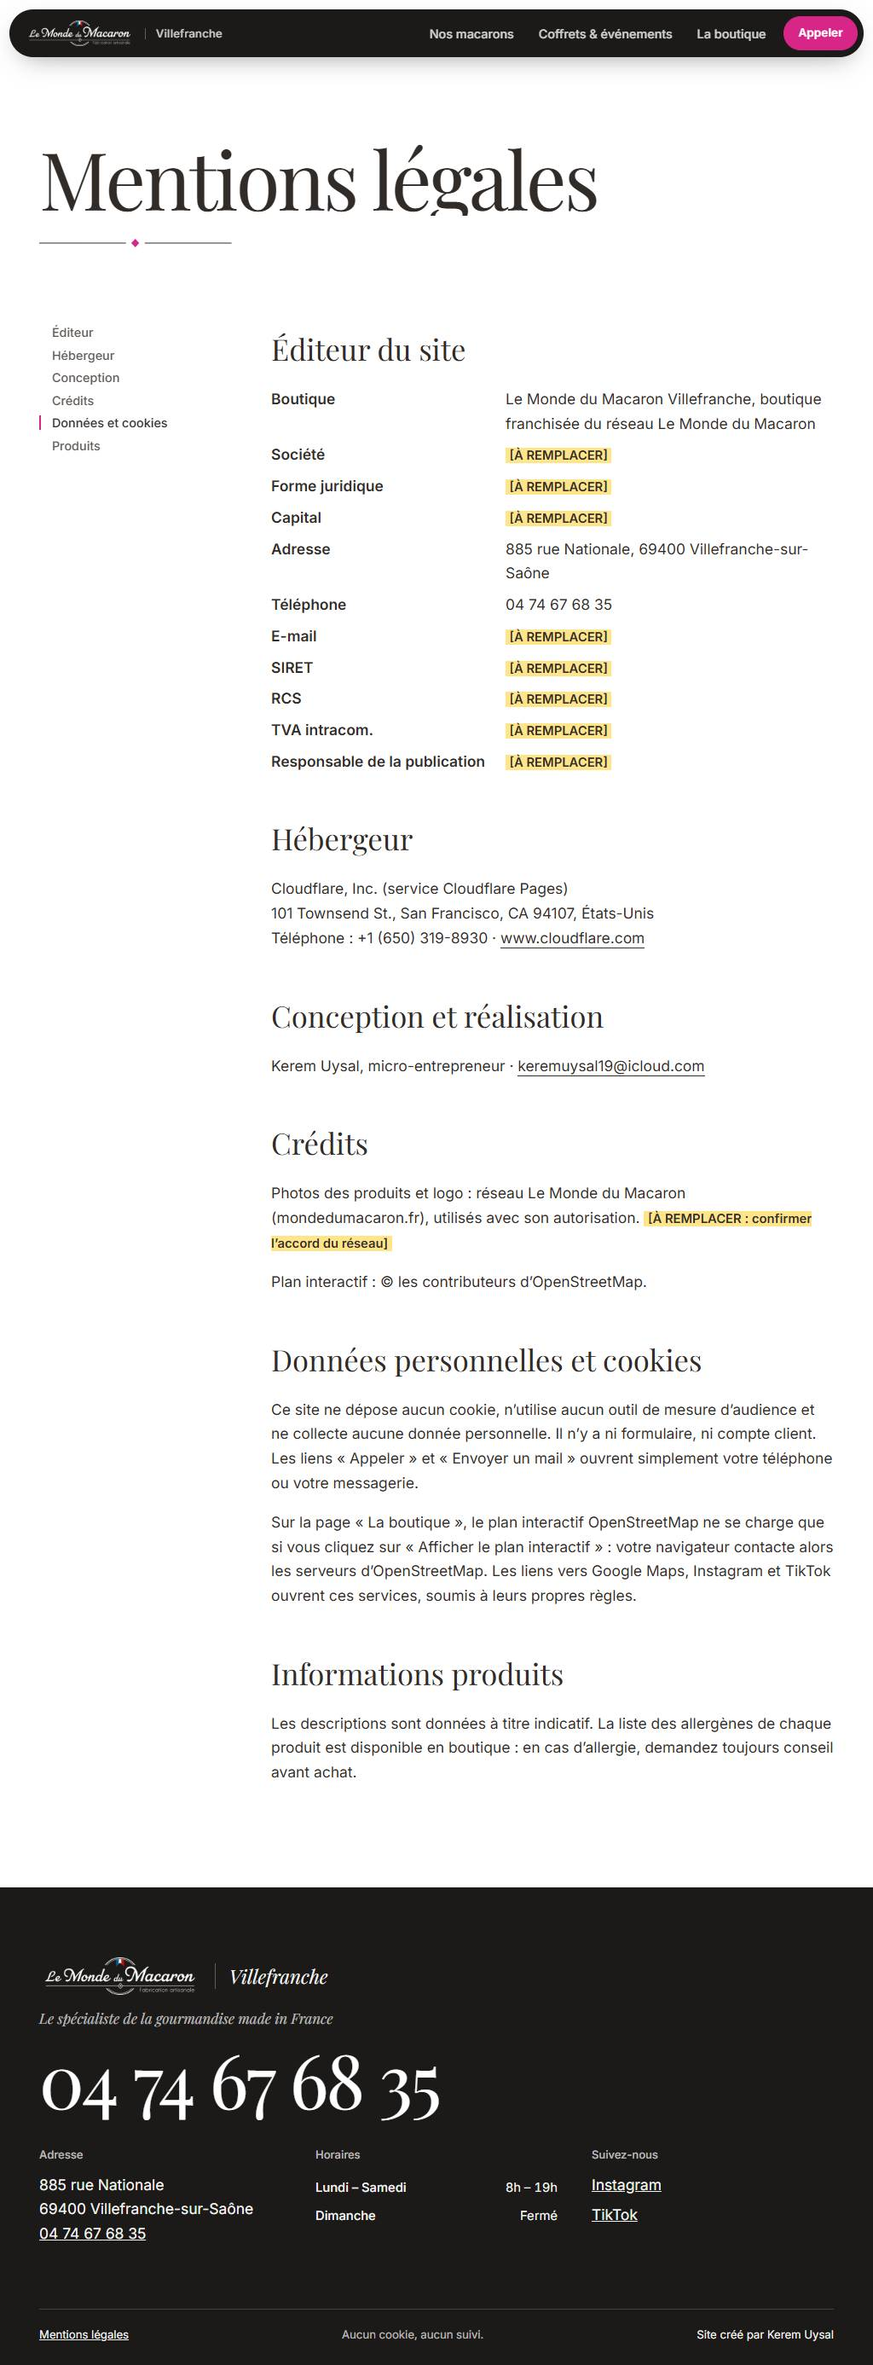
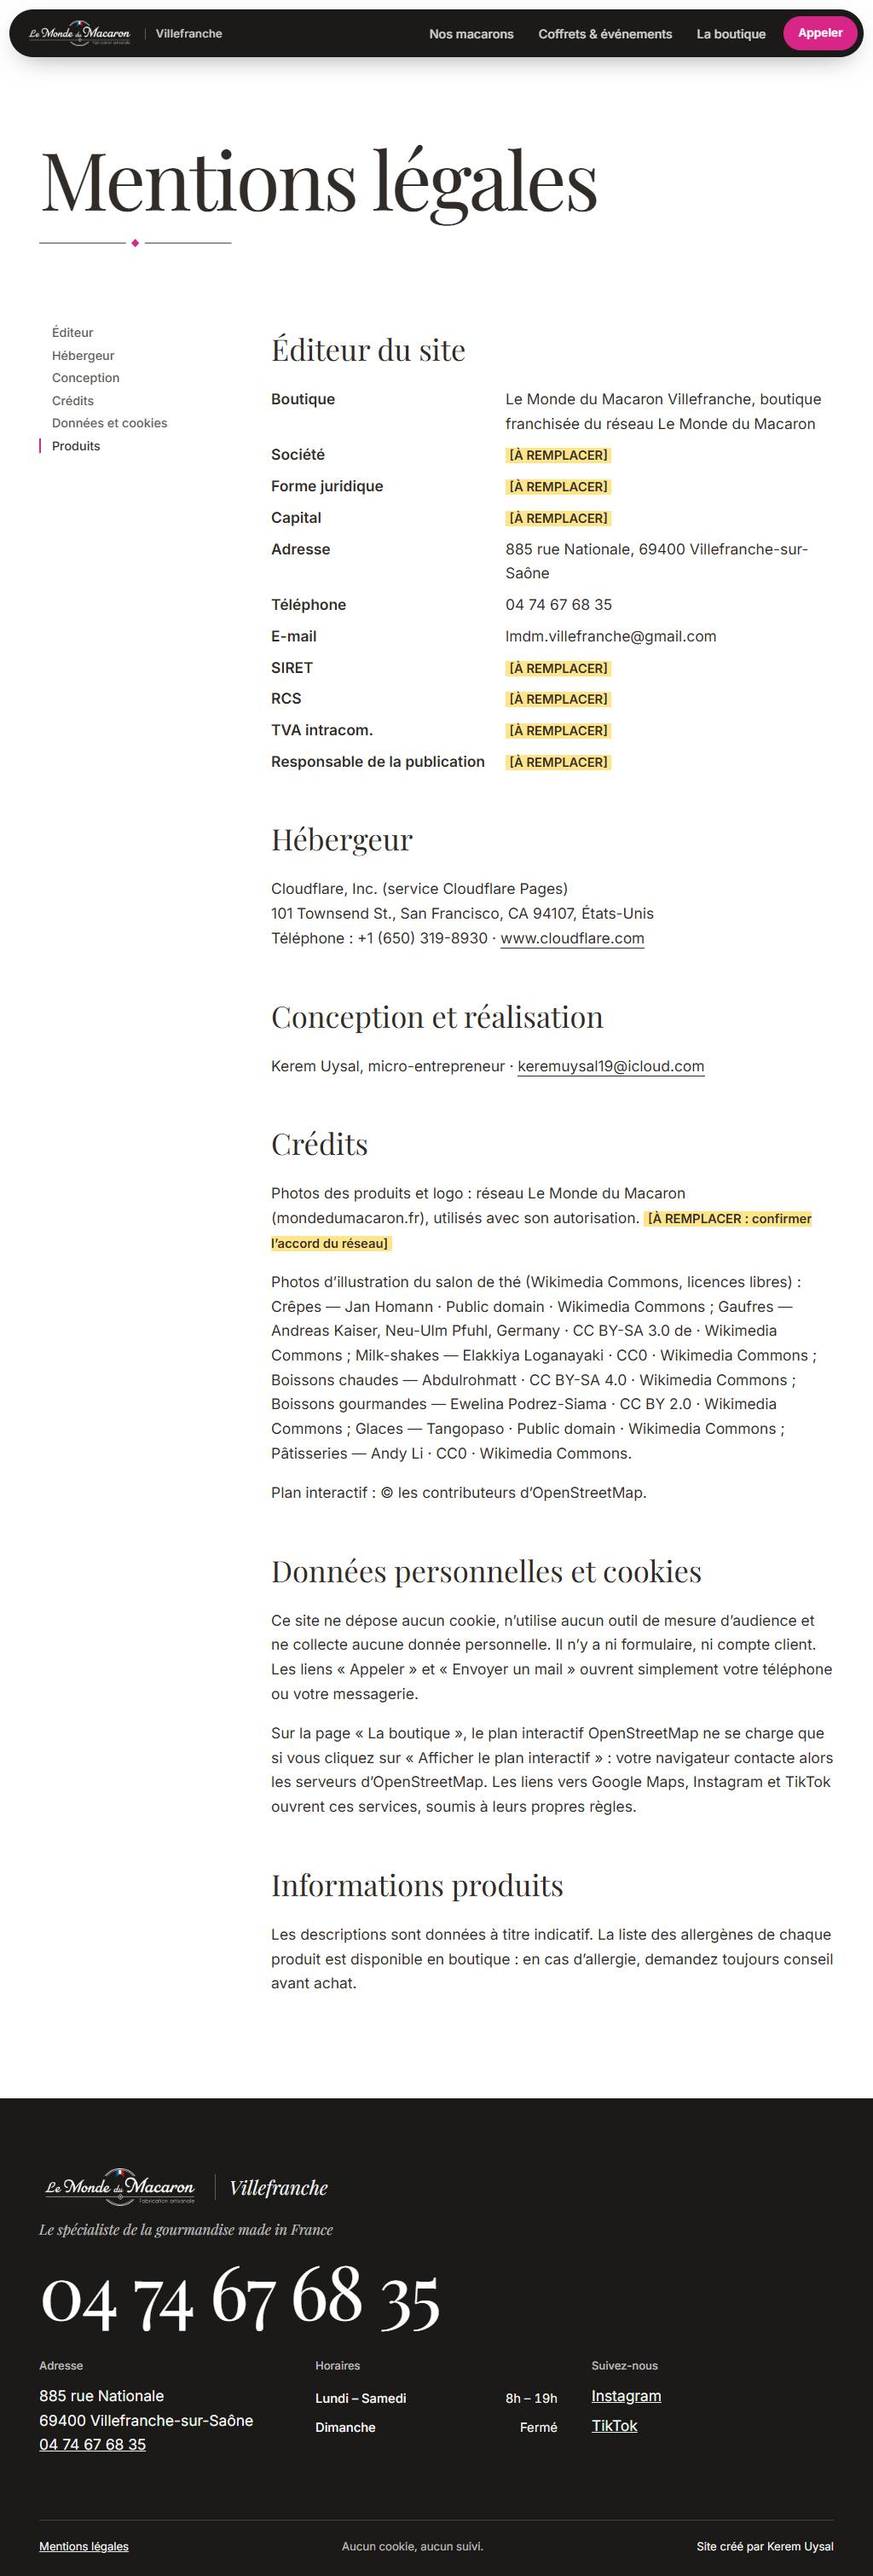
E-mail de la boutique, produits et photos du salon de thé

diff --git a/src/styles/maison.css b/src/styles/maison.css
@@ -336,3 +336,12 @@ mark.todo { background: #FFE58A; color: #322C29; padding: 0 .3em; font: 600 .85e
   .fiche__btn[aria-pressed='true'] .fiche__verso { opacity: 1; }
   .fiche__btn[aria-pressed='true'] .fiche__recto { opacity: 0; }
 }
+
+/* Salon de thé : vraies photos (cadre carré) au lieu de détourés */
+.fiche--salon .fiche__objet img { width: 100%; aspect-ratio: 1; object-fit: cover; }
+.fiche--salon .fiche__objet::after { display: none; }
+.salon__photos { display: flex; gap: clamp(.8rem, 2vw, 1.5rem); overflow-x: auto; scrollbar-width: none; padding-bottom: .5rem; margin-bottom: 1rem; }
+.salon__photo { flex: none; width: clamp(180px, 22vw, 300px); text-decoration: none; display: grid; gap: .6rem; }
+.salon__img { display: block; aspect-ratio: 4 / 5; overflow: hidden; background: var(--gris); }
+.salon__img img { width: 100%; height: 100%; object-fit: cover; transform: scale(1.32); transition: transform .9s var(--ease-maison); }
+.salon__photo:hover .salon__img img { transform: scale(1.38); }

diff --git a/src/scripts/noyau.js b/src/scripts/noyau.js
@@ -127,12 +127,12 @@ function apparitions() {
     }
     if (type === 'pose') {
       gsap.set(el, { opacity: 1 });
-      gsap.from(el.children, { opacity: 0, y: -10, duration: 0.6, stagger: 0.08, ease: 'maison', scrollTrigger: st });
+      gsap.fromTo(el.children, { opacity: 0, y: -10 }, { opacity: 1, y: 0, duration: 0.6, stagger: 0.08, ease: 'maison', scrollTrigger: st });
       return;
     }
     if (type === 'liste') {
       gsap.set(el, { opacity: 1 });
-      gsap.from(el.children, { opacity: 0, duration: 0.5, stagger: 0.05, scrollTrigger: st });
+      gsap.fromTo(el.children, { opacity: 0 }, { opacity: 1, duration: 0.5, stagger: 0.05, scrollTrigger: st });
       return;
     }
     gsap.fromTo(el, { opacity: 0 }, { opacity: 1, duration: 0.6, ease: 'power1.out', scrollTrigger: st });

diff --git a/src/scripts/pages/macarons.js b/src/scripts/pages/macarons.js
@@ -63,11 +63,6 @@ export default function init({ gsap, ScrollTrigger, lenis, reduce, $, $$ }) {
     gsap.fromTo(b, { z: 0 }, { z: 60, duration: 0.4, yoyo: true, repeat: 1, ease: 'power1.inOut' });
   });
 
-  // Fiches « posées » par lots
-  if (!reduce) {
-    ScrollTrigger.batch(fiches, { start: 'top 92%', once: true, onEnter: (els) => gsap.from(els, { opacity: 0, y: -10, duration: 0.6, stagger: 0.06, ease: 'maison' }) });
-  }
-
   // Arrivée depuis l'accueil (#parfum) : la fiche est mise en valeur
   const cible = location.hash ? document.getElementById(decodeURIComponent(location.hash.slice(1))) : null;
   if (cible?.classList.contains('fiche')) {

diff --git a/scripts/collecte/commons.py b/scripts/collecte/commons.py
@@ -1,0 +1,24 @@
+# Cherche une photo libre (Wikimedia Commons) par produit du salon de thé et la télécharge.
+import json, urllib.request, urllib.parse, sys, re, time
+UA = {'User-Agent': 'LeMondeDuMacaronVillefranche-site/1.0 (https://le-monde-du-macaron-villefranche.pages.dev)'}
+def api(params):
+    u = 'https://commons.wikimedia.org/w/api.php?' + urllib.parse.urlencode({**params, 'format': 'json'})
+    return json.load(urllib.request.urlopen(urllib.request.Request(u, headers=UA), timeout=30))
+OK = re.compile(r'^(CC0|Public domain|CC BY(-SA)? [0-9.]+)', re.I)
+req = {'gaufres': 'belgian waffle', 'boissons-gourmandes': 'frappe coffee whipped cream', 'patisseries': 'eclair pastry'}
+out = json.load(open('scripts/collecte/commons.json', encoding='utf-8'))
+for pid, q in req.items():
+    r = api({'action': 'query', 'generator': 'search', 'gsrsearch': f'filetype:bitmap {q}', 'gsrnamespace': 6, 'gsrlimit': 15,
+             'prop': 'imageinfo', 'iiprop': 'url|extmetadata|size', 'iiurlwidth': 1280})
+    pages = sorted(r.get('query', {}).get('pages', {}).values(), key=lambda p: p.get('index', 99))
+    for p in pages:
+        ii = p['imageinfo'][0]; m = ii.get('extmetadata', {})
+        lic = m.get('LicenseShortName', {}).get('value', '')
+        if not OK.match(lic) or ii.get('width', 0) < 900 or not p['title'].lower().endswith(('.jpg', '.jpeg')): continue
+        art = re.sub('<[^>]+>', '', m.get('Artist', {}).get('value', 'inconnu')).strip()
+        dest = f'assets/photos/salon-{pid}.jpg'
+        urllib.request.urlretrieve(ii['thumburl'], dest) if False else open(dest, 'wb').write(urllib.request.urlopen(urllib.request.Request(ii['thumburl'], headers=UA), timeout=60).read())
+        out[pid] = {'fichier': dest, 'titre': p['title'], 'page': ii['descriptionurl'], 'auteur': art, 'licence': lic}
+        time.sleep(3); break
+json.dump(out, open('scripts/collecte/commons.json', 'w', encoding='utf-8'), ensure_ascii=False, indent=1)
+for k, v in out.items(): print(k, '|', v['titre'][:60], '|', v['licence'], '|', v['auteur'][:40])

diff --git a/SOURCES-PHOTOS.md b/SOURCES-PHOTOS.md
@@ -109,3 +109,16 @@ Toutes les photos viennent du site du réseau Le Monde du Macaron (mondedumacaro
 | assets/photos/detourage/macaron-violette-seul.jpg | https://www.mondedumacaron.fr/media/catalog/product/v/i/violette_2.jpg | Violette (macaron seul, animation d'accueil) |
 | assets/photos/detourage/macaron-vanille-seul.jpg | https://www.mondedumacaron.fr/media/catalog/product/v/a/vanille_1.jpg | Vanille (macaron seul, animation d'accueil) |
 | assets/logo/logo-monde-du-macaron.png (→ public/logo-monde-du-macaron.webp) | https://www.mondedumacaron.fr/media/wysiwyg/logo.png | Logo officiel du réseau (bandeau et pied de page) — **à faire valider avec les photos** |
+
+## Photos d'illustration du salon de thé (licence libre, Wikimedia Commons)
+À remplacer dès que possible par de vraies photos de la boutique (même nom de fichier).
+
+| Fichier | Page d'origine | Auteur | Licence |
+|---|---|---|---|
+| assets/photos/salon-crepes.jpg | https://commons.wikimedia.org/wiki/File:Pfannkuchen_mit_Zucker.jpg | Jan Homann | Public domain |
+| assets/photos/salon-milk-shakes.jpg | https://commons.wikimedia.org/wiki/File:GLASS_OF_HAPPINESS.jpg | Elakkiya Loganayaki | CC0 |
+| assets/photos/salon-boissons-chaudes.jpg | https://commons.wikimedia.org/wiki/File:Cup_of_coffee_with_latte_art_2016.jpg | Abdulrohmatt | CC BY-SA 4.0 |
+| assets/photos/salon-glaces.jpg | https://commons.wikimedia.org/wiki/File:Coupe_glac%C3%A9e_%C3%A0_la_p%C3%AAche_et_sa_liqueur_(O%27petits_oignons).jpg | Tangopaso | Public domain |
+| assets/photos/salon-gaufres.jpg | https://commons.wikimedia.org/wiki/File:Belgische_waffeln.jpg | Andreas Kaiser, Neu-Ulm Pfuhl, Germany | CC BY-SA 3.0 de |
+| assets/photos/salon-boissons-gourmandes.jpg | https://commons.wikimedia.org/wiki/File:Frappe_-_coffee_milkshake_with_whipped_cream_and_chocolate_(KETO,_LCHF,_Low_Carb,_Gluten_free,_FIT)_-_52774791604.jpg | Ewelina Podrez-Siama | CC BY 2.0 |
+| assets/photos/salon-patisseries.jpg | https://commons.wikimedia.org/wiki/File:Pistachio_eclair_-_Milfey_Patisserie_2026-05-02.jpg | Andy Li | CC0 |

diff --git a/A-REMPLACER.md b/A-REMPLACER.md
@@ -4,7 +4,6 @@ Sur le site, chaque valeur manquante s'affiche **surlignée en jaune** (`[À REM
 
 | # | À remplir | Où ça s'affiche | Fichier à modifier | Ce que j'ai trouvé |
 |---|---|---|---|---|
-| 2 | **E-mail de la boutique** | La boutique, Coffrets & événements (bouton « Envoyer un mail »), Mentions légales | `data/boutique.json` → `email` | Introuvable. Tant qu'il manque, le bouton ouvre la messagerie avec l'objet pré-rempli mais sans destinataire. |
 | 3 | **Allergènes** de chaque produit | Nos macarons (dos des cartes) | `data/produits.json` → `allergenes` (94 produits) | Le réseau n'affiche aucun allergène. À recopier depuis la fiche allergènes de la boutique. |
 | 4 | Prix (facultatif) | Nos macarons (dos des cartes) | `data/produits.json` → `prix` (ex. `"1,90 €"`) | Aucun prix sur le site du réseau. Laisser `null` pour ne rien afficher. |
 | 5 | Raison sociale, forme juridique, capital, SIRET, RCS, TVA | Mentions légales | `data/boutique.json` → `mentions_legales` | À demander à la gérante (extrait Kbis). |
@@ -18,3 +17,4 @@ Sur le site, chaque valeur manquante s'affiche **surlignée en jaune** (`[À REM
 - Les descriptions des 94 produits (rédigées par moi) : `data/produits.json` → `description`.
 - La note Google (4,6) et le nombre d'avis (719), relevés le 19/11/2026 : `data/boutique.json` → `google`.
 - La liste des parfums vendus à Villefranche : le catalogue vient du réseau, la boutique n'a peut-être pas tout. Retirer un produit = supprimer son bloc dans `data/produits.json`.
+| 10 | **Vraies photos du salon de thé** (crêpes, gaufres, milk-shakes, boissons, glaces, pâtisseries) | Accueil (salon de thé), Nos macarons (filtre Salon de thé) | Déposer `assets/photos/salon-<nom>.jpg` (même nom), puis retirer `"photo_illustration": true` et `credit_photo` dans `data/produits.json` | Photos d'illustration libres de droits (Wikimedia Commons) en attendant. |
